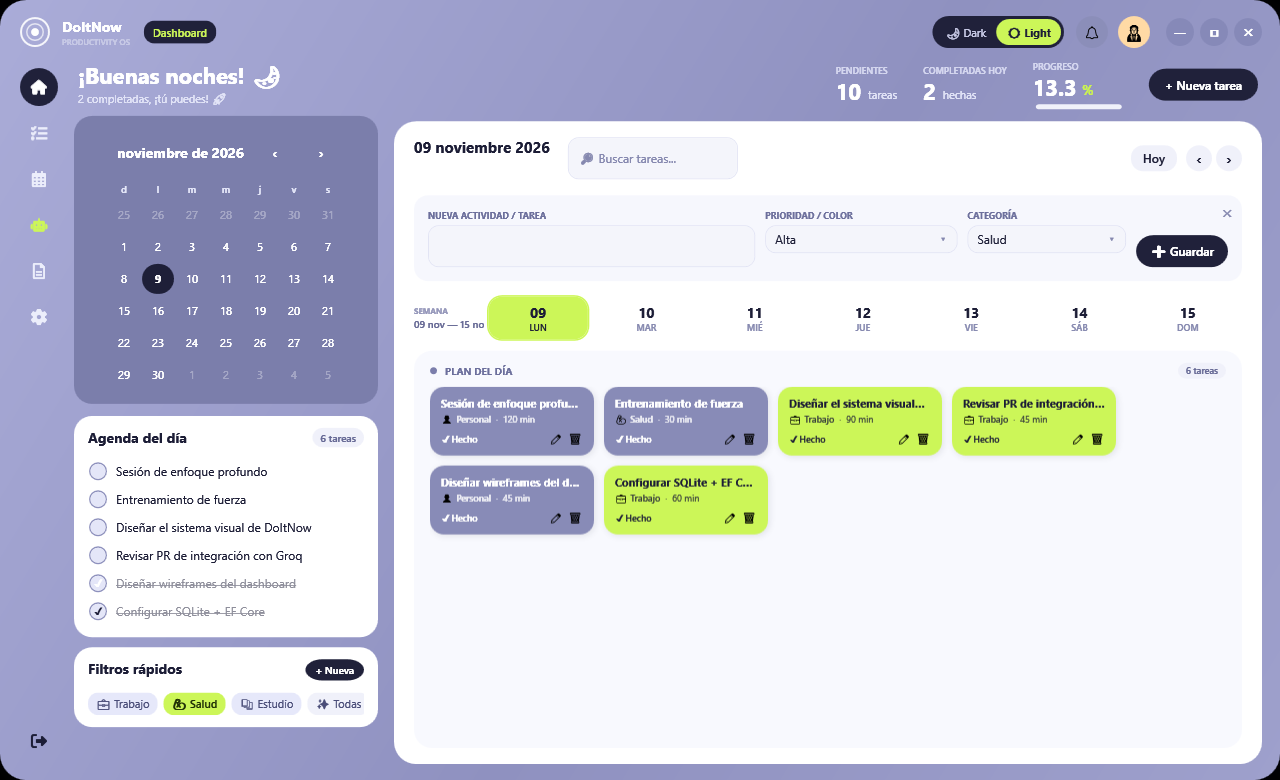
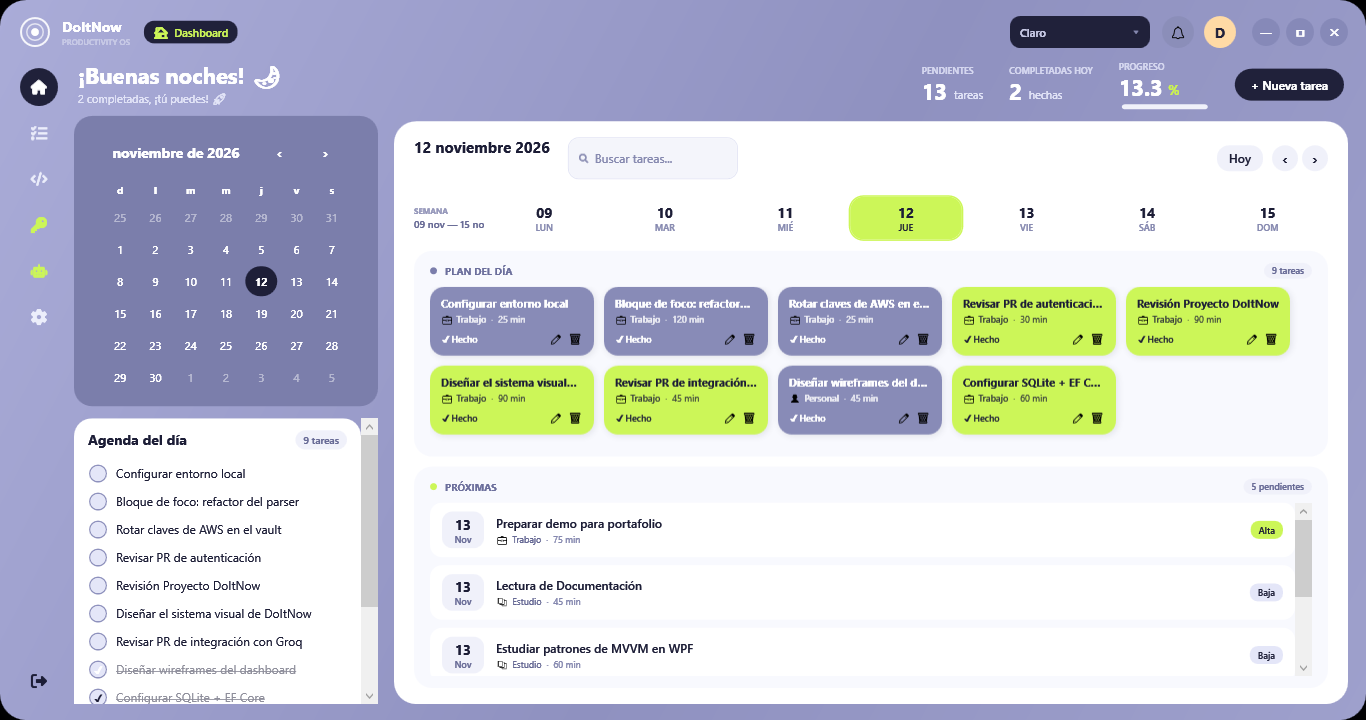
Reposition README around developer workflows and refresh demo data
Rewrite the intro, rationale and highlights so the app reads as a developer workspace (code notes, encrypted secrets vault, local AI). Add a 'Built for developer workflows' table, reorder the feature tour, and add upcoming developer features to the roadmap. Seed demo and first-run tasks with developer-oriented content and keep three curated screenshots instead of ten.

diff --git a/DoItNow/ViewModels/SettingsViewModel.cs b/DoItNow/ViewModels/SettingsViewModel.cs
@@ -310,23 +310,23 @@ namespace DoItNow.ViewModels
                 },
                 new()
                 {
-                    Title = "Sesión de enfoque profundo",
-                    Description = "Bloque sin notificaciones para avanzar en la arquitectura MVVM.",
+                    Title = "Bloque de foco: refactor del parser",
+                    Description = "Sin notificaciones: separar el parseo de credenciales de la UI.",
                     Priority = Priority.Medium,
-                    Category = TaskCategory.Personal,
+                    Category = TaskCategory.Work,
                     State = State.Pending,
                     DueDate = today,
                     EstimatedMinutes = 120
                 },
                 new()
                 {
-                    Title = "Entrenamiento de fuerza",
-                    Description = "Rutina de 30 minutos: movilidad, fuerza y estiramientos.",
+                    Title = "Rotar claves de AWS en el vault",
+                    Description = "Importar el CSV de IAM, actualizar las entradas y archivar el original.",
                     Priority = Priority.Medium,
-                    Category = TaskCategory.Health,
+                    Category = TaskCategory.Work,
                     State = State.Pending,
                     DueDate = today,
-                    EstimatedMinutes = 30
+                    EstimatedMinutes = 25
                 },
                 new()
                 {
@@ -366,10 +366,10 @@ namespace DoItNow.ViewModels
                 },
                 new()
                 {
-                    Title = "Meditación y estiramientos",
-                    Description = "20 minutos para bajar el ritmo y recuperar foco.",
+                    Title = "Revisar logs del pipeline de CI",
+                    Description = "Detectar el test intermitente y abrir un issue con la traza.",
                     Priority = Priority.Low,
-                    Category = TaskCategory.Health,
+                    Category = TaskCategory.Work,
                     State = State.Pending,
                     DueDate = today.AddDays(2),
                     EstimatedMinutes = 20

diff --git a/DoItNow/Services/TaskService.cs b/DoItNow/Services/TaskService.cs
@@ -31,28 +31,28 @@ namespace DoItNow.Services
 
                 var task1 = new TaskItem
                 {
-                    Title = "Morning Run",
-                    Description = "Entrenamiento cardiovascular matutino al aire libre",
+                    Title = "Revisar PR de autenticación",
+                    Description = "Leer el diff, correr los tests y dejar comentarios accionables.",
                     Priority = Priority.High,
-                    Category = TaskCategory.Health,
+                    Category = TaskCategory.Work,
                     State = State.Active,
                     DueDate = today,
                     EstimatedMinutes = 30,
                     CreatedAt = DateTime.Now,
                     SubTasks = new List<SubTaskItem>
                     {
-                        new() { Title = "Calentamiento articular (5 min)", IsCompleted = true },
-                        new() { Title = "Carrera continúa 4km", IsCompleted = false },
-                        new() { Title = "Estiramiento y vuelta a la calma", IsCompleted = false }
+                        new() { Title = "Leer el diff completo", IsCompleted = true },
+                        new() { Title = "Correr la suite local", IsCompleted = false },
+                        new() { Title = "Dejar comentarios en el PR", IsCompleted = false }
                     }
                 };
 
                 var task2 = new TaskItem
                 {
-                    Title = "Yoga & Meditación",
-                    Description = "Sesión de flexibilidad, postura y respiración",
+                    Title = "Configurar entorno local",
+                    Description = "Clonar el repo, restaurar paquetes y validar la cadena de conexión.",
                     Priority = Priority.Medium,
-                    Category = TaskCategory.Health,
+                    Category = TaskCategory.Work,
                     State = State.Pending,
                     DueDate = today,
                     EstimatedMinutes = 25,

diff --git a/README.md b/README.md
@@ -1,11 +1,12 @@
 # DoItNow
 
-**A calm, AI-assisted productivity desktop app built with WPF and .NET 8.**
+**A local-first workspace for developers: tasks, code notes, an encrypted secrets vault
+and on-device AI. Built with WPF and .NET 8.**
 
-DoItNow brings tasks, calendar, daily planning, a hybrid AI assistant, an encrypted key
-vault and a real code editor into a single focused workspace. It ships with local
-profiles, a hand-crafted design system, nine selectable themes, meaningful animations,
-and a local-first data model.
+DoItNow puts the things a developer reaches for all day in one window: a daily planner, a
+syntax-highlighted code notes editor, an AES-256-GCM vault for API keys and AWS
+credentials, offline document conversion, and a hybrid AI assistant that can run entirely
+on your machine. Local profiles, nine themes, SQLite persistence, no account required.
 
 <p>
   <img alt=".NET 8" src="https://img.shields.io/badge/.NET-8.0-512BD4?logo=dotnet&logoColor=white">
@@ -19,10 +20,23 @@ and a local-first data model.
 
 ## Why DoItNow
 
-Most task apps ask you to adapt to their workflow. DoItNow was built around a simple
-idea: **plan the day, not the backlog**. The dashboard pairs a real calendar with a
-tight daily agenda and a visual plan board, while the AI assistant helps break work
-down without leaving the app.
+Developers rarely lose time to a missing kanban board. They lose it to context switching:
+the ticket lives in one app, the snippet in another, the API key in a `.env` file, the
+spec in a PDF, and the assistant in a browser tab that ships your code to someone else's
+server.
+
+DoItNow collapses that loop into a single local-first desktop app:
+
+- **Plan the day, not the backlog** — a real calendar, a tight agenda and quick filters
+  instead of weeks of grooming.
+- **Keep code notes where the code is** — syntax highlighting for eight languages and
+  export to real source files.
+- **Keep secrets out of `.env` files and chat logs** — an encrypted vault that imports AWS
+  credentials and stores credential files as encrypted attachments.
+- **Turn specs into tasks** — drop a PDF, Word or Markdown file and let the assistant
+  extract actionable items, offline if you prefer.
+- **Run AI on proprietary code** — local Ollama inference by default, Groq Cloud as an
+  optional fallback.
 
 It is also a complete desktop engineering showcase: MVVM, dependency-light services,
 local SQLite persistence, a semantic theming system, and reproducible demo data for
@@ -30,35 +44,48 @@ screenshots.
 
 ---
 
+## Built for developer workflows
+
+| You are… | DoItNow gives you… |
+| --- | --- |
+| Planning a sprint day | Dashboard calendar, daily agenda and quick filters — no backlog grooming |
+| Reading a spec or issue export | Document mode extracts tasks from PDF, Word, Markdown or plain text |
+| Jotting a snippet | Code notes with highlighting for C#, JSON, SQL, JS, Python, PowerShell, XML and Markdown |
+| Rotating credentials | Encrypted vault with AWS CSV/INI import and encrypted attachments |
+| Working on proprietary code | Local Ollama inference — prompts and code never leave the machine |
+| Sharing a PC | Local profiles with optional password and separate databases |
+
+---
+
 ## Highlights
 
-- **Local profiles with optional password** — a sign-in screen keeps separate workspaces
-  on the same machine. Each profile owns its database, settings, chat history and vault;
-  the password is stored only as a PBKDF2-SHA256 verifier. The first profile adopts any
-  database created by older versions, with no manual migration.
-- **Nine selectable themes** — Claro, Oscuro, Sepia, Medianoche, Océano, Nord, Rosé,
-  Cinnamoroll and Alto contraste. Semantic brush tokens are swapped at runtime and persisted across
-  sessions, with startup CLI override support.
-- **Live dashboard** — greeting, real today/week dates, pending/completed metrics and
-  an animated progress bar driven by the database.
-- **Task management** — create, edit, complete, delete, search and filter by category
-  and priority, with toast feedback and an inline creation form.
-- **Calendar & agenda** — a fully working WPF `CalendarItem` template (`PART_MonthView`
-  / `PART_YearView`) with per-day task filtering, integrated into the dashboard.
+- **Encrypted key vault** — store API keys, tokens, connection strings and passwords
+  protected with AES-256-GCM. Optional master password (PBKDF2-SHA256) or transparent
+  protection via Windows DPAPI; secrets stay masked until you reveal them.
+- **Code notes with real highlighting** — an AvalonEdit-powered editor with line
+  numbers, syntax highlighting for C#, JSON, SQL, JavaScript, Python, PowerShell, XML
+  and Markdown, clipboard-aware pasting and file export.
 - **Hybrid AI workspace** — local [Ollama](https://ollama.com) inference with automatic
   fallback to [Groq Cloud](https://console.groq.com), in one place: a conversational
   assistant and a document mode that turns notes or text files into actionable tasks.
 - **Offline document conversion** — convert PDF, Word, Excel, CSV, JSON, Markdown and
   plain text entirely on your machine. Batch queue, drag and drop, live preview and a
   configurable destination folder. No uploads, no accounts, no third-party services.
-- **Encrypted key vault** — store API keys, tokens and passwords protected with
-  AES-256-GCM. Optional master password (PBKDF2-SHA256) or transparent protection via
-  Windows DPAPI; secrets stay masked until you reveal them.
-- **Code notes with real highlighting** — an AvalonEdit-powered editor with line
-  numbers, syntax highlighting for C#, JSON, SQL, JavaScript, Python, PowerShell, XML
-  and Markdown, clipboard-aware pasting and file export.
+- **Local profiles with optional password** — a sign-in screen keeps separate workspaces
+  on the same machine. Each profile owns its database, settings, chat history and vault;
+  the password is stored only as a PBKDF2-SHA256 verifier. The first profile adopts any
+  database created by older versions, with no manual migration.
+- **Live dashboard** — greeting, real today/week dates, pending/completed metrics and
+  an animated progress bar driven by the database.
+- **Task management** — create, edit, complete, delete, search and filter by category
+  and priority, with toast feedback and an inline creation form.
+- **Calendar & agenda** — a fully working WPF `CalendarItem` template (`PART_MonthView`
+  / `PART_YearView`) with per-day task filtering, integrated into the dashboard.
 - **Portable encrypted backup** — export the vault to a password-protected
   `.ditvault` file and import it on another machine. No cloud account required.
+- **Nine selectable themes** — Claro, Oscuro, Sepia, Medianoche, Océano, Nord, Rosé,
+  Cinnamoroll and Alto contraste. Semantic brush tokens are swapped at runtime and persisted across
+  sessions, with startup CLI override support.
 - **Micro-interactions** — section transitions, hover-lift cards, animated toasts,
   a window entrance animation and a theme-aware startup veil that never delays loading.
 - **Desktop details** — a multi-size app icon for the executable, window and taskbar;
@@ -91,6 +118,31 @@ separate (personal, work, demos).
 - The rail's sign-out button returns to the profile screen; the profile's window bounds
   and last section are saved before the session is closed.
 
+### Code notes
+
+A dedicated code editor replaces the Windows notepad for snippets and technical notes.
+It keeps line numbers, highlights syntax per language, tracks unsaved changes, and
+exports real source files with the right extension. Everything is stored locally, so it
+works completely offline.
+
+### Encrypted key vault
+
+Store API keys, tokens, connection strings and passwords in an encrypted vault. Secrets
+are never shown in plain text by default and are only decrypted in memory when the vault
+is unlocked.
+
+- **Transparent mode** — on first launch the vault is protected by a random key wrapped
+  with Windows DPAPI (bound to the current Windows user). No password to remember.
+- **Master password mode** — derive the key with PBKDF2-SHA256 and unlock every entry
+  with a single password. Changing the password re-encrypts the whole vault.
+- **Encrypted export/import** — move the vault between machines with a `.ditvault` file
+  protected by its own password.
+- **Encrypted attachments** — attach credential files, certificates or JSON keys to any
+  entry. They are encrypted with the same AES-GCM key, capped at 10 MB per file and
+  included in `.ditvault` backups.
+- **AWS credentials import** — read an IAM access-key CSV export or an `~/.aws/credentials`
+  (INI) file, create or update the matching entries, and keep the original file attached.
+
 ### Command center
 
 The dashboard is the single planning hub: a real month calendar, the daily agenda, quick
@@ -118,31 +170,6 @@ One module with two modes, switched from a segmented control at the top:
     preview the result and choose the destination folder. Nothing is uploaded.
   - **Extract tasks** — load a text-like document, preview it, and ask the active AI
     provider to extract tasks or summarize its content.
-
-### Code notes
-
-A dedicated code editor replaces the Windows notepad for snippets and technical notes.
-It keeps line numbers, highlights syntax per language, tracks unsaved changes, and
-exports real source files with the right extension. Everything is stored locally, so it
-works completely offline.
-
-### Encrypted key vault
-
-Store API keys, tokens, connection strings and passwords in an encrypted vault. Secrets
-are never shown in plain text by default and are only decrypted in memory when the vault
-is unlocked.
-
-- **Transparent mode** — on first launch the vault is protected by a random key wrapped
-  with Windows DPAPI (bound to the current Windows user). No password to remember.
-- **Master password mode** — derive the key with PBKDF2-SHA256 and unlock every entry
-  with a single password. Changing the password re-encrypts the whole vault.
-- **Encrypted export/import** — move the vault between machines with a `.ditvault` file
-  protected by its own password.
-- **Encrypted attachments** — attach credential files, certificates or JSON keys to any
-  entry. They are encrypted with the same AES-GCM key, capped at 10 MB per file and
-  included in `.ditvault` backups.
-- **AWS credentials import** — read an IAM access-key CSV export or an `~/.aws/credentials`
-  (INI) file, create or update the matching entries, and keep the original file attached.
 
 ### Settings
 
@@ -229,7 +256,7 @@ DoItNow/
 │     ├─ ButtonStyle.xaml           # Buttons, combo boxes, inputs
 │     └─ CalendarStyles.xaml        # Custom WPF calendar template
 ├─ DoItNow.Tests/                   # xUnit suite: crypto, vault, profiles, AWS parser
-├─ docs/screenshots/                # Portfolio screenshots
+├─ docs/screenshots/                # Selected portfolio screenshots
 └─ DoItNow.sln
 ```
 
@@ -442,7 +469,9 @@ Adding a new theme means creating one dictionary with the same keys and register
 - [x] Multi-size app icon and window/taskbar integration
 - [ ] Drag-and-drop task scheduling on the timeline
 - [ ] Recurring tasks and reminders
-- [ ] CSV / Markdown export
+- [ ] Command palette (`Ctrl+K`) for navigation and quick capture
+- [ ] Import `.env` files into the encrypted vault
+- [ ] CSV / Markdown export of tasks and code notes
 - [ ] Optional cloud sync backend
 - [x] Build CI workflow
 - [x] Automated test suite (xUnit) with CI test runs
